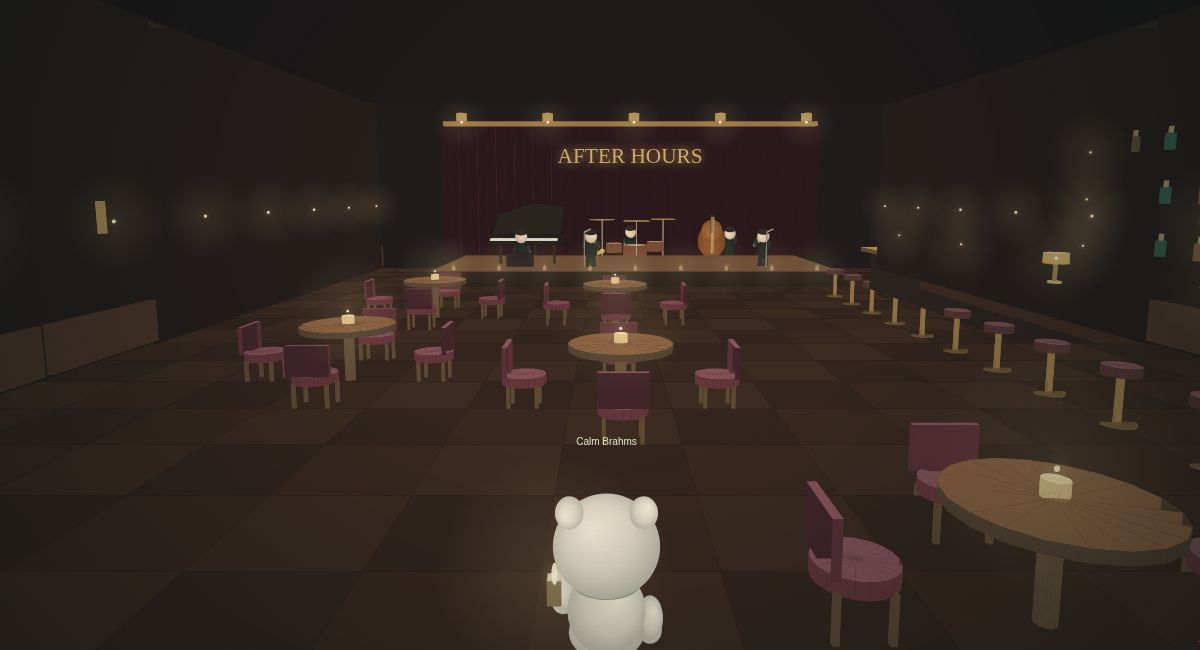
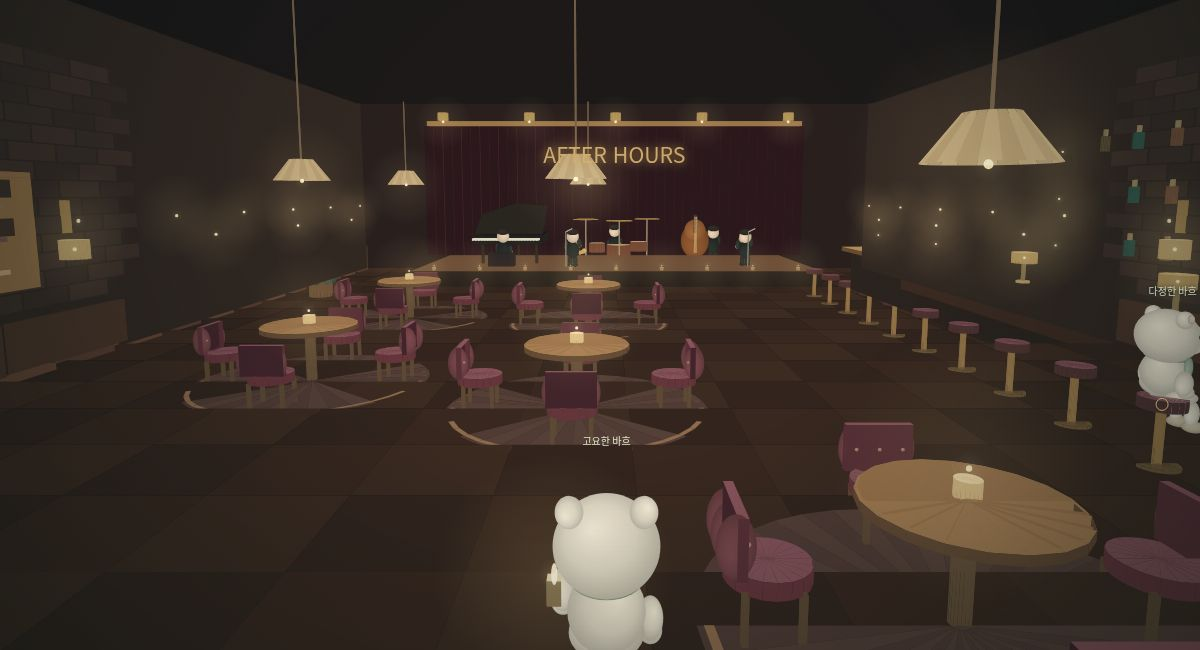
Stabilize jazz bar camera and soften the interior

diff --git a/listening-room/index.html b/listening-room/index.html
@@ -1,4 +1,4 @@
-<!doctype html><html lang="ko"><meta charset="utf-8"><meta name="viewport" content="width=device-width,initial-scale=1,viewport-fit=cover"><meta name="theme-color" content="#19251f"><title>잠시, 음악 — Listening Room · Ian Chung</title><meta name="description" content="체임버홀, 촛불이 빛나는 빈야드홀, 별과 오로라 아래의 별빛 청음실, 작은 퀸텟과 함께하는 재즈바. 오늘 마음이 향하는 음악 공간을 골라보세요."><link rel="canonical" href="https://ianchungmusic.com/listening-room/"><script>if(!['chamber','vineyard','greenhouse','jazzbar'].includes(new URLSearchParams(location.search).get('hall')))document.documentElement.classList.add('choosingHall');</script><link rel="stylesheet" href="style.css?v=20261105-22"><script src="i18n.js?v=20261105-22"></script><body><canvas id="hall" aria-label="내 캐릭터와 함께하는 체임버 홀. 드래그로 시선을 돌리고 방향키로 이동하세요."></canvas><div class="vignette"></div><header><a class="brand" href="/" aria-label="Ian Chung 홈으로">잠시, 음악<small>THE LISTENING ROOM</small></a><div class="topright"><a class="halllink" href="?hall=chamber">체임버홀</a><a class="halllink" href="?hall=vineyard">빈야드홀</a><a class="halllink" href="?hall=greenhouse">별빛 청음실</a><a class="halllink" href="?hall=jazzbar">재즈바</a><span>PRIVATE RECITAL</span><button id="fullscreen" aria-label="전체 화면">⛶</button><button id="help" aria-label="이용 안내">?</button></div></header><div id="toast" role="status"></div><div class="place"><span>THE EVENING HALL</span><small id="seatlabel">빈 의자를 누르면 그 자리에 앉아요</small></div><nav class="walk" aria-label="공간 이동"><button id="forward" aria-label="앞으로 걷기">↑</button><div><button id="left" aria-label="왼쪽 걷기">←</button><button id="back" aria-label="뒤로 걷기">↓</button><button id="right" aria-label="오른쪽 걷기">→</button></div></nav><nav id="ritualDock" aria-label="마음 쉬어가기"><button id="candleButton">♧ 내 촛불 놓기</button><button id="restButton">⌑ 쉬는 자리</button><button id="breatheButton">◌ 숨 고르기</button><button id="curtainButton">↗ 감상 마치기</button></nav><button id="reset" class="reset">입구로 돌아가기</button><footer><div class="playing"><small id="playstate">A MOMENT OF STILLNESS</small><strong id="title">비가 머무는 저녁</strong></div><div class="transport"><button id="prev" aria-label="이전 곡">‹</button><button id="play" aria-label="음악 재생">▶</button><button id="next" aria-label="다음 곡">›</button></div><div class="ambient"><button id="rain" aria-pressed="false" title="빗소리">☂</button><button id="programtoggle" aria-expanded="false" title="연주 목록">☷</button><label><span>음량</span><input id="volume" aria-label="음량" type="range" min="0" max="100" value="65"></label><button id="hideui" title="음악에 집중하기">◌</button></div><div class="timeline"><span id="elapsed">0:00</span><input id="seek" aria-label="재생 위치" type="range" min="0" max="144" value="0"><span id="duration">2:24</span></div></footer><aside id="program" hidden><small>TONIGHT’S PROGRAM</small><button id="closeprogram" aria-label="연주 목록 닫기">×</button><h2>고요 속의 세 풍경</h2><div id="tracks"></div><section class="source"><label for="musicurl">내 음악으로 듣기</label><form id="musicform"><input id="musicurl" type="url" placeholder="YouTube 또는 음원 링크" autocomplete="off"><button type="submit">연결</button></form><label class="filepick" for="musicfile">＋ MP3 · WAV 파일 선택<input id="musicfile" type="file" accept="audio/*,.mp3,.wav,.m4a,.ogg,.flac"></label><p id="sourcestatus" role="status">음원 파일은 영상 없이 재생돼요. 선택한 파일은 이 기기에서만 사용됩니다.</p><p>YouTube는 작은 영상 플레이어가 함께 표시됩니다.</p></section><p>오리지널 합성 피아노 스케치 · 혼자 감상하는 공간</p></aside><section id="youtubePanel" hidden aria-label="YouTube 음악 플레이어"><div class="ytheader"><span>YouTube</span><button id="stopyoutube" aria-label="YouTube 재생 종료">×</button></div><div id="youtubeMount"></div><p id="youtubeStatus" role="status">플레이어에서 재생 버튼을 눌러주세요.</p><a id="youtubeOpen" target="_blank" rel="noopener">YouTube에서 열기 ↗</a></section><div class="welcome" id="welcome"><div><small>YOU WERE NEVER LOST</small><h1>빛과 음악 사이,<br>당신의 자리.</h1><p>잠시 머물러도 괜찮아요.</p><button id="enter" disabled>홀 안으로 들어가기 <span>→</span></button><small class="guide">드래그로 둘러보기 · 의자를 눌러 앉기<br>이어폰으로 들으면 더 좋아요</small></div></div><section id="arrival" hidden aria-label="어두운 입장 복도"><canvas id="arrivalCanvas" aria-label="문 너머의 음악을 따라 천천히 걷는 복도"></canvas><div class="arrivalCaption"><small>BETWEEN THE EVERYDAY AND THE MUSIC</small><p>문 너머에서, 음악이 들려요.</p><button id="skipArrival">바로 들어가기 →</button></div></section><section id="candlePanel" hidden aria-label="내 촛불 놓기"><button id="closeCandle" aria-label="촛불 놓기 닫기">×</button><small>A LITTLE LIGHT, FROM YOU</small><h2>어디에 빛을 놓을까요?</h2><p>홀의 바닥을 눌러 놓거나, 아래에서 골라주세요.</p><div><button data-candle="near">내 자리 옆</button><button data-candle="stage">무대 앞</button><button data-candle="entrance">입구 선반</button></div><small class="localnote">이 기기에서 20분간 남아 있어요.</small></section><section id="restPanel" hidden aria-label="쉬는 자리"><button id="closeRest" aria-label="쉬는 자리 닫기">×</button><small>FIND YOUR OWN DISTANCE</small><h2>오늘은, 어떻게 쉴까요?</h2><button data-rest="balcony">혼자 듣는 발코니 <span>음악과 조금 떨어져</span></button><button data-rest="lean">벽에 기대기 <span>몸을 편안히</span></button><button data-rest="blanket">담요 덮고 앉기 <span>따뜻하고 가까이</span></button></section><dialog id="exitChoice"><button id="closeExit" aria-label="감상 계속하기">×</button><small>A QUIET GOODNIGHT</small><h2>어떻게 인사할까요?</h2><button id="quietExit">이 자리에서 조용히 <span>작은 인사와 마지막 한 음</span></button><button id="stageExit">무대에서 커튼콜 <span>오케스트라와 마주하며</span></button></dialog><section id="breathOverlay" hidden aria-label="지휘자와 함께하는 쉼표"><small>A REST, TOGETHER</small><div class="breathHalo"><div id="breathOrb"></div><span id="breathCue">편안히 준비해요</span></div><p id="breathCount" role="status">지휘자의 손과 함께 · 30초</p><p class="gentle">리듬을 따르지 않고, 내 호흡대로 쉬어도 괜찮아요.</p><button id="endBreath">내 호흡으로 돌아가기</button></section><section id="farewell" hidden aria-label="오늘의 커튼콜"><small>THE LAST NOTE IS FOR YOU</small><h2 id="farewellTitle">오늘을 지나온 당신에게,<br>이 마지막 한 음을.</h2><p id="farewellMood"></p><div class="farewellObject" id="farewellObject"></div><p id="farewellNote" role="status">당신이 무대에 오르는 동안, 잠시 음악이 잦아들어요.</p><div id="farewellActions" hidden><button id="stayHere">조금 더 머물기</button><button id="leaveHall">마음에 담고 나가기</button></div><button id="cancelCurtain">지금 자리로 돌아가기</button></section><section id="goodbye" hidden><small>YOU WERE NEVER LOST</small><h2>당신의 자리는<br>여기에 남아 있어요.</h2><p>오늘의 마음을 잠시 쉬게 해주어서 고마워요.</p><button id="returnHall">다시 음악실로</button></section><dialog id="instructions"><button id="closehelp">×</button><small>MAKE YOURSELF AT HOME</small><h2>이곳에서, 천천히.</h2><p>화면을 드래그해 내 캐릭터 주변을 둘러보세요.<br>방향키 또는 WASD, 왼쪽 아래 화살표로 걸을 수 있어요.<br>의자를 누르면 내 캐릭터가 그 자리로 이동해 앉습니다.<br>카메라는 높은 곳에서 따라가 무대를 보여줍니다.</p><p>촛불 버튼을 누르고 홀의 바닥을 선택하면 내 빛을 놓을 수 있어요.<br>쉬는 자리에서 발코니·기대기·담요를 선택할 수 있습니다.<br>아래 ☷ 버튼에서 곡을 고를 수 있어요.<br>◌ 버튼으로 조작 화면을 숨길 수 있습니다.<br>빈 화면을 한 번 누르면 다시 나타납니다.</p><p>☷ 연주 목록에서 YouTube·음원 링크를 연결하거나<br>내 기기의 MP3·WAV 파일을 선택할 수 있어요.<br>YouTube 재생에는 작은 영상 플레이어가 표시됩니다.<br>함께 숨 고르기로 지휘자와 30초의 쉼표를 만들고,<br>나를 위한 커튼콜로 오늘의 감상을 마칠 수 있어요.<br>현재는 혼자 감상하는 공간입니다.</p></dialog><script src="audio.js?v=20261105-22"></script><script src="room-soundscapes.js?v=20261105-22"></script><script src="media.js?v=20261105-22"></script><script src="chamber-music.js?v=20261105-22"></script><script src="jazz-audio.js?v=20261105-22"></script><script src="rituals.js?v=20261105-22"></script><script src="stillness.js?v=20261105-22"></script><script src="greenhouse-audio.js?v=20261105-22"></script><script src="presence.js?v=20261105-22"></script><script src="recommendations.js?v=20261105-22"></script><script src="comfort.js?v=20261105-22"></script><script src="scene-engine.js?v=20261105-22"></script><script src="seat-walk.js?v=20261105-22"></script><script src="venue.js?v=20261105-22"></script></body></html>
+<!doctype html><html lang="ko"><meta charset="utf-8"><meta name="viewport" content="width=device-width,initial-scale=1,viewport-fit=cover"><meta name="theme-color" content="#19251f"><title>잠시, 음악 — Listening Room · Ian Chung</title><meta name="description" content="체임버홀, 촛불이 빛나는 빈야드홀, 별과 오로라 아래의 별빛 청음실, 작은 퀸텟과 함께하는 재즈바. 오늘 마음이 향하는 음악 공간을 골라보세요."><link rel="canonical" href="https://ianchungmusic.com/listening-room/"><script>if(!['chamber','vineyard','greenhouse','jazzbar'].includes(new URLSearchParams(location.search).get('hall')))document.documentElement.classList.add('choosingHall');</script><link rel="stylesheet" href="style.css?v=20261105-23"><script src="i18n.js?v=20261105-23"></script><body><canvas id="hall" aria-label="내 캐릭터와 함께하는 체임버 홀. 드래그로 시선을 돌리고 방향키로 이동하세요."></canvas><div class="vignette"></div><header><a class="brand" href="/" aria-label="Ian Chung 홈으로">잠시, 음악<small>THE LISTENING ROOM</small></a><div class="topright"><a class="halllink" href="?hall=chamber">체임버홀</a><a class="halllink" href="?hall=vineyard">빈야드홀</a><a class="halllink" href="?hall=greenhouse">별빛 청음실</a><a class="halllink" href="?hall=jazzbar">재즈바</a><span>PRIVATE RECITAL</span><button id="fullscreen" aria-label="전체 화면">⛶</button><button id="help" aria-label="이용 안내">?</button></div></header><div id="toast" role="status"></div><div class="place"><span>THE EVENING HALL</span><small id="seatlabel">빈 의자를 누르면 그 자리에 앉아요</small></div><nav class="walk" aria-label="공간 이동"><button id="forward" aria-label="앞으로 걷기">↑</button><div><button id="left" aria-label="왼쪽 걷기">←</button><button id="back" aria-label="뒤로 걷기">↓</button><button id="right" aria-label="오른쪽 걷기">→</button></div></nav><nav id="ritualDock" aria-label="마음 쉬어가기"><button id="candleButton">♧ 내 촛불 놓기</button><button id="restButton">⌑ 쉬는 자리</button><button id="breatheButton">◌ 숨 고르기</button><button id="curtainButton">↗ 감상 마치기</button></nav><button id="reset" class="reset">입구로 돌아가기</button><footer><div class="playing"><small id="playstate">A MOMENT OF STILLNESS</small><strong id="title">비가 머무는 저녁</strong></div><div class="transport"><button id="prev" aria-label="이전 곡">‹</button><button id="play" aria-label="음악 재생">▶</button><button id="next" aria-label="다음 곡">›</button></div><div class="ambient"><button id="rain" aria-pressed="false" title="빗소리">☂</button><button id="programtoggle" aria-expanded="false" title="연주 목록">☷</button><label><span>음량</span><input id="volume" aria-label="음량" type="range" min="0" max="100" value="65"></label><button id="hideui" title="음악에 집중하기">◌</button></div><div class="timeline"><span id="elapsed">0:00</span><input id="seek" aria-label="재생 위치" type="range" min="0" max="144" value="0"><span id="duration">2:24</span></div></footer><aside id="program" hidden><small>TONIGHT’S PROGRAM</small><button id="closeprogram" aria-label="연주 목록 닫기">×</button><h2>고요 속의 세 풍경</h2><div id="tracks"></div><section class="source"><label for="musicurl">내 음악으로 듣기</label><form id="musicform"><input id="musicurl" type="url" placeholder="YouTube 또는 음원 링크" autocomplete="off"><button type="submit">연결</button></form><label class="filepick" for="musicfile">＋ MP3 · WAV 파일 선택<input id="musicfile" type="file" accept="audio/*,.mp3,.wav,.m4a,.ogg,.flac"></label><p id="sourcestatus" role="status">음원 파일은 영상 없이 재생돼요. 선택한 파일은 이 기기에서만 사용됩니다.</p><p>YouTube는 작은 영상 플레이어가 함께 표시됩니다.</p></section><p>오리지널 합성 피아노 스케치 · 혼자 감상하는 공간</p></aside><section id="youtubePanel" hidden aria-label="YouTube 음악 플레이어"><div class="ytheader"><span>YouTube</span><button id="stopyoutube" aria-label="YouTube 재생 종료">×</button></div><div id="youtubeMount"></div><p id="youtubeStatus" role="status">플레이어에서 재생 버튼을 눌러주세요.</p><a id="youtubeOpen" target="_blank" rel="noopener">YouTube에서 열기 ↗</a></section><div class="welcome" id="welcome"><div><small>YOU WERE NEVER LOST</small><h1>빛과 음악 사이,<br>당신의 자리.</h1><p>잠시 머물러도 괜찮아요.</p><button id="enter" disabled>홀 안으로 들어가기 <span>→</span></button><small class="guide">드래그로 둘러보기 · 의자를 눌러 앉기<br>이어폰으로 들으면 더 좋아요</small></div></div><section id="arrival" hidden aria-label="어두운 입장 복도"><canvas id="arrivalCanvas" aria-label="문 너머의 음악을 따라 천천히 걷는 복도"></canvas><div class="arrivalCaption"><small>BETWEEN THE EVERYDAY AND THE MUSIC</small><p>문 너머에서, 음악이 들려요.</p><button id="skipArrival">바로 들어가기 →</button></div></section><section id="candlePanel" hidden aria-label="내 촛불 놓기"><button id="closeCandle" aria-label="촛불 놓기 닫기">×</button><small>A LITTLE LIGHT, FROM YOU</small><h2>어디에 빛을 놓을까요?</h2><p>홀의 바닥을 눌러 놓거나, 아래에서 골라주세요.</p><div><button data-candle="near">내 자리 옆</button><button data-candle="stage">무대 앞</button><button data-candle="entrance">입구 선반</button></div><small class="localnote">이 기기에서 20분간 남아 있어요.</small></section><section id="restPanel" hidden aria-label="쉬는 자리"><button id="closeRest" aria-label="쉬는 자리 닫기">×</button><small>FIND YOUR OWN DISTANCE</small><h2>오늘은, 어떻게 쉴까요?</h2><button data-rest="balcony">혼자 듣는 발코니 <span>음악과 조금 떨어져</span></button><button data-rest="lean">벽에 기대기 <span>몸을 편안히</span></button><button data-rest="blanket">담요 덮고 앉기 <span>따뜻하고 가까이</span></button></section><dialog id="exitChoice"><button id="closeExit" aria-label="감상 계속하기">×</button><small>A QUIET GOODNIGHT</small><h2>어떻게 인사할까요?</h2><button id="quietExit">이 자리에서 조용히 <span>작은 인사와 마지막 한 음</span></button><button id="stageExit">무대에서 커튼콜 <span>오케스트라와 마주하며</span></button></dialog><section id="breathOverlay" hidden aria-label="지휘자와 함께하는 쉼표"><small>A REST, TOGETHER</small><div class="breathHalo"><div id="breathOrb"></div><span id="breathCue">편안히 준비해요</span></div><p id="breathCount" role="status">지휘자의 손과 함께 · 30초</p><p class="gentle">리듬을 따르지 않고, 내 호흡대로 쉬어도 괜찮아요.</p><button id="endBreath">내 호흡으로 돌아가기</button></section><section id="farewell" hidden aria-label="오늘의 커튼콜"><small>THE LAST NOTE IS FOR YOU</small><h2 id="farewellTitle">오늘을 지나온 당신에게,<br>이 마지막 한 음을.</h2><p id="farewellMood"></p><div class="farewellObject" id="farewellObject"></div><p id="farewellNote" role="status">당신이 무대에 오르는 동안, 잠시 음악이 잦아들어요.</p><div id="farewellActions" hidden><button id="stayHere">조금 더 머물기</button><button id="leaveHall">마음에 담고 나가기</button></div><button id="cancelCurtain">지금 자리로 돌아가기</button></section><section id="goodbye" hidden><small>YOU WERE NEVER LOST</small><h2>당신의 자리는<br>여기에 남아 있어요.</h2><p>오늘의 마음을 잠시 쉬게 해주어서 고마워요.</p><button id="returnHall">다시 음악실로</button></section><dialog id="instructions"><button id="closehelp">×</button><small>MAKE YOURSELF AT HOME</small><h2>이곳에서, 천천히.</h2><p>화면을 드래그해 내 캐릭터 주변을 둘러보세요.<br>방향키 또는 WASD, 왼쪽 아래 화살표로 걸을 수 있어요.<br>의자를 누르면 내 캐릭터가 그 자리로 이동해 앉습니다.<br>카메라는 높은 곳에서 따라가 무대를 보여줍니다.</p><p>촛불 버튼을 누르고 홀의 바닥을 선택하면 내 빛을 놓을 수 있어요.<br>쉬는 자리에서 발코니·기대기·담요를 선택할 수 있습니다.<br>아래 ☷ 버튼에서 곡을 고를 수 있어요.<br>◌ 버튼으로 조작 화면을 숨길 수 있습니다.<br>빈 화면을 한 번 누르면 다시 나타납니다.</p><p>☷ 연주 목록에서 YouTube·음원 링크를 연결하거나<br>내 기기의 MP3·WAV 파일을 선택할 수 있어요.<br>YouTube 재생에는 작은 영상 플레이어가 표시됩니다.<br>함께 숨 고르기로 지휘자와 30초의 쉼표를 만들고,<br>나를 위한 커튼콜로 오늘의 감상을 마칠 수 있어요.<br>현재는 혼자 감상하는 공간입니다.</p></dialog><script src="audio.js?v=20261105-23"></script><script src="room-soundscapes.js?v=20261105-23"></script><script src="media.js?v=20261105-23"></script><script src="chamber-music.js?v=20261105-23"></script><script src="jazz-audio.js?v=20261105-23"></script><script src="rituals.js?v=20261105-23"></script><script src="stillness.js?v=20261105-23"></script><script src="greenhouse-audio.js?v=20261105-23"></script><script src="presence.js?v=20261105-23"></script><script src="recommendations.js?v=20261105-23"></script><script src="comfort.js?v=20261105-23"></script><script src="scene-engine.js?v=20261105-23"></script><script src="seat-walk.js?v=20261105-23"></script><script src="venue.js?v=20261105-23"></script></body></html>
 
 
 

diff --git a/listening-room/jazz-bar.js b/listening-room/jazz-bar.js
@@ -15,7 +15,7 @@ function rod(a,b,r,col){let dx=b[0]-a[0],dy=b[1]-a[1],dz=b[2]-a[2],len=Math.hypo
 // AFTER HOURS: walnut, velvet, brass and the warmth of a small quintet stage.
 function cylinder(x,y,z,r,h,col,top=col){const N=20;for(let j=0;j<N;j++){const a=j/N*Math.PI*2,b=(j+1)/N*Math.PI*2;face([[x+Math.cos(a)*r,y,z+Math.sin(a)*r],[x+Math.cos(b)*r,y,z+Math.sin(b)*r],[x+Math.cos(b)*r,y+h,z+Math.sin(b)*r],[x+Math.cos(a)*r,y+h,z+Math.sin(a)*r]],col);face([[x,y+h,z],[x+Math.cos(a)*r,y+h,z+Math.sin(a)*r],[x+Math.cos(b)*r,y+h,z+Math.sin(b)*r]],top);}}
 for(let z=-14;z<26;z+=2)for(let x=-14;x<14;x+=2)face([[x,0,z],[x+2,0,z],[x+2,0,z+2],[x,0,z+2]],['#33251e','#3c2b21','#39281f'][Math.abs(x+z)%3]);
-box(-14,0,6,.3,9,40,'#251e1b');box(14,0,6,.3,9,40,'#251e1b');box(0,0,-14,28,9,.3,'#201c1c');box(0,0,26,28,9,.3,'#231d1a');box(0,9,6,28,.12,40,'#1c1918');
+box(-14,0,6,.3,9,40,'#322822');box(14,0,6,.3,9,40,'#322822');box(0,0,-14,28,9,.3,'#29201e');box(0,0,26,28,9,.3,'#302621');box(0,9,6,28,.12,40,'#1c1918');
 for(const side of [-1,1])for(let z=-12;z<=24;z+=4){box(side*13.8,.12,z,.12,1.15,3.8,'#493428');box(side*13.7,3.2,z,.08,.8,.23,'#9c7b48');lights.push([side*13.4,3.5,z,.05]);}
 for(let z=-10;z<26;z+=5)box(0,8.75,z,28,.25,.24,'#332820');
 // Burgundy curtains frame a low, intimate stage with generous aisles outside it.
@@ -36,7 +36,7 @@ function loungeSeat(x,z,heading,kind,label){const start=geo.length,old=buildingW
  for(let i=start;i<geo.length;i++)geo[i].pts=geo[i].pts.map(([px,py,pz])=>[x+px*Math.cos(heading)-pz*Math.sin(heading),py,z+px*Math.sin(heading)+pz*Math.cos(heading)]);buildingWorld=old;
 }
 const tablePlaces=[[-7,2],[-1,3],[-7,10],[-1,12],[3,19]];
-for(let i=0;i<tablePlaces.length;i++){const [x,z]=tablePlaces[i];cylinder(x,.04,z,.11,1.14,'#655039');cylinder(x,1.18,z,1.02,.13,'#514032','#865e3f');blockers.push({x,y:0,z,a:2.04,b:1.31,c:2.04});
+for(let i=0;i<tablePlaces.length;i++){const [x,z]=tablePlaces[i];cylinder(x,.04,z,.11,1.14,'#655039');cylinder(x,1.18,z,1.02,.10,'#614732','#a47b51');cylinder(x,1.28,z,.99,.025,'#a47b51','#9a714a');blockers.push({x,y:0,z,a:2.04,b:1.31,c:2.04});
  cylinder(x,1.32,z,.13,.18,'#dbbc83','#f8dfab');lights.push([x,1.60,z,.03]);
  for(let j=0;j<4;j++){const a=j/4*Math.PI*2,sx=x+Math.sin(a)*1.88,sz=z+Math.cos(a)*1.88; loungeSeat(sx,sz,Math.atan2(x-sx,sz-z),'table',`테이블 ${String(i+1).padStart(2,'0')} · ${j+1}번`);}
 }
@@ -66,8 +66,24 @@ function jazzBand(t){const time=matchMedia('(prefers-reduced-motion: reduce)').m
  }
 }
 
+// Quilted velvet backs and softly rounded seats replace hard chair silhouettes.
+for(const chair of chairs){if(chair.kind!=='table')continue;const heading=-(chair.theta||0),co=Math.cos(heading),si=Math.sin(heading),at=(x,y,z)=>[chair.x+x*co-z*si,y,chair.z+x*si+z*co];
+ for(const x of [-.29,0,.29]){const q=at(x,.97,.36);ball(...q,.19,.31,.095,'#77464a');const b=at(x,.99,.245);ball(...b,.025,.025,.015,'#ac8270');}
+}
+// Woven rugs beneath the tables, leaving the walking aisles untouched.
+for(const [x,z] of tablePlaces){const N=36;for(let j=0;j<N;j++){const a=j/N*Math.PI*2,b=(j+1)/N*Math.PI*2;face([[x,.012,z],[x+Math.cos(a)*2.55,.012,z+Math.sin(a)*2.55],[x+Math.cos(b)*2.55,.012,z+Math.sin(b)*2.55]],j%2?'#503b35':'#554038');}for(let j=0;j<36;j++){const a=j/36*Math.PI*2,b=(j+1)/36*Math.PI*2;face([[x+Math.cos(a)*2.38,.016,z+Math.sin(a)*2.38],[x+Math.cos(b)*2.38,.016,z+Math.sin(b)*2.38],[x+Math.cos(b)*2.48,.016,z+Math.sin(b)*2.48],[x+Math.cos(a)*2.48,.016,z+Math.sin(a)*2.48]],'#8d6b4c');}}
+// Picture mouldings, amber sconces and old record sleeves along the brick walls.
+for(const side of [-1,1])for(let z=-8;z<24;z+=6){box(side*13.73,2,z,.12,2.65,2.0,'#916e45');box(side*13.63,2.12,z,.06,2.40,1.76,'#282526');for(let k=0;k<5;k++)box(side*13.58,2.4+k*.36,z+(k%2?-.32:.24),.025,.10,.65,['#c3a172','#927259','#745250'][k%3]);}
+for(const side of [-1,1])for(let z=-9;z<25;z+=6){cylinder(side*12.8,2.65,z,.30,.45,'#bc9b64','#e3c18a');lights.push([side*12.8,2.88,z,.05]);}
+// Books, old vinyl and green leaves soften the back of the room.
+for(let j=0;j<18;j++)box(-13.5,.04,-12+j*2,.16,.16,1.82,j%2?'#644434':'#583c30');
+for(const [x,z] of [[-12,-3],[-12,18],[12,22]]){cylinder(x,.02,z,.45,.7,'#6a4f36');for(let j=0;j<9;j++){const a=j*2.4;ball(x+Math.sin(a)*.45,1.0+(j%3)*.38,z+Math.cos(a)*.45,.23,.48,.14,j%2?'#526451':'#3d5645');}}
+// Subtle exposed-brick courses and low linen pendants give the room a lived-in feel.
+for(const side of [-1,1])for(let row=0;row<14;row++)for(let z=-13+(row%2)*.7;z<25;z+=1.4){const x=side*13.82,y=1.5+row*.43;face([[x,y,z],[x,y+.395,z],[x,y+.395,z+1.34],[x,y,z+1.34]],['#3b2f29','#40312a','#382c27'][(row+Math.abs(Math.round(z)))%3]);}
+for(const [x,z] of tablePlaces){rod([x,8.8,z],[x,4.6,z],.018,'#756149');for(let j=0;j<20;j++){const a=j/20*Math.PI*2,b=(j+1)/20*Math.PI*2;face([[x+Math.cos(a)*.24,4.9,z+Math.sin(a)*.24],[x+Math.cos(b)*.24,4.9,z+Math.sin(b)*.24],[x+Math.cos(b)*.58,4.45,z+Math.sin(b)*.58],[x+Math.cos(a)*.58,4.45,z+Math.sin(a)*.58]],j%2?'#b69b70':'#c2a87b');}lights.push([x,4.44,z,.045]);}
 const worldGeometryCount=geo.length;buildingWorld=false;const depthRenderer=window.createHallRenderer?.(),physics=window.createHallPhysics?.(blockers,chairs,(x,z)=>0);
 
+const cameraRig=window.createHallCameraRig(physics,cam);
 const seatWalk=window.createSeatWalker({physics,chairs,person,dest,bounds:(x,z)=>x>=-12.9&&x<=12.9&&z>=-4.5&&z<=23.5,getSeat:()=>seat,
  onStart(i){seat=-1;window.hallRitual.restPose=null;window.hallRitual.distanceGain=1;window.applyRoomVolume?.();Object.keys(keys).forEach(k=>keys[k]=false);$('seatlabel').textContent='선택한 자리로 천천히 걸어가는 중…';},
  onArrive(i){seat=i;moving=false;lookYaw=0;lookPitch=-.13;person.heading=-(chairs[i].theta||0);$('seatlabel').textContent=chairs[i].label+' · 나만의 자리';},
@@ -112,7 +128,7 @@ function personalLight(t){let E=window.hallRitual;if(!E)return;let c=E.candle;if
 
 const slow=matchMedia('(prefers-reduced-motion: reduce)').matches;
 function sky(t){X.fillStyle='#171719';X.fillRect(0,0,width,height);}
-let old=0;function draw(t){focal=height/(2*Math.tan((width<680?75:67)*Math.PI/360))*(window.hallZoom||1);if(t-old<40){requestAnimationFrame(draw);return;}let frameDelta=(t-old)/1000,dt=Math.min(frameDelta,.10);old=t;const speed=1.85*dt;if(keys.ArrowUp||keys.w)walk(0,-speed);if(keys.ArrowDown||keys.s)walk(0,speed);if(keys.ArrowLeft||keys.a)walk(-speed,0);if(keys.ArrowRight||keys.d)walk(speed,0);let lerp=1-Math.exp(-dt*4),dx=dest.x-person.x,dz=dest.z-person.z;const navigation=seatWalk.tick(Math.min(frameDelta,.5),window.hallRitual?.phase==='listening');moving=navigation?navigation.moving:Math.hypot(dx,dz)>.04;if(!navigation){person.x+=dx*lerp;person.z+=dz*lerp;person.y+=(dest.y-person.y)*lerp;}if(navigation)person.heading=navigation.heading;else if(moving)person.heading=Math.atan2(dx,-dz);else if(seat>=0)person.heading=-(chairs[seat]?.theta||0);let distance=innerWidth<680?6.5:6.7;cam.x+=(person.x-Math.sin(lookYaw)*distance-cam.x)*lerp;cam.z+=(person.z+Math.cos(lookYaw)*distance-cam.z)*lerp;cam.y+=(person.y+(seat>=0?4.1:4.8)-cam.y)*lerp;cam.yaw+=(lookYaw-cam.yaw)*lerp;cam.pitch+=(lookPitch-cam.pitch)*lerp;if(physics&&!stargazing)Object.assign(cam,physics.camera({x:person.x,y:person.y+1.6,z:person.z},cam,{architectureOnly:true}));window.roomPresence?.frame(person,seatWalk.target>=0?seatWalk.target:seat,moving);if(stargazing)geo.length=worldGeometryCount;else{avatar(t);for(const visitor of window.roomPresence?.peers()||[])avatar(t,visitor,true);personalCandleGeometry();}jazzBand(t);sky(t);
+let old=0;function draw(t){focal=height/(2*Math.tan((width<680?75:67)*Math.PI/360))*(window.hallZoom||1);if(t-old<40){requestAnimationFrame(draw);return;}let frameDelta=(t-old)/1000,dt=Math.min(frameDelta,.10);old=t;const speed=1.85*dt;if(keys.ArrowUp||keys.w)walk(0,-speed);if(keys.ArrowDown||keys.s)walk(0,speed);if(keys.ArrowLeft||keys.a)walk(-speed,0);if(keys.ArrowRight||keys.d)walk(speed,0);let lerp=1-Math.exp(-dt*4),dx=dest.x-person.x,dz=dest.z-person.z;const navigation=seatWalk.tick(Math.min(frameDelta,.5),window.hallRitual?.phase==='listening');moving=navigation?navigation.moving:Math.hypot(dx,dz)>.04;if(!navigation){person.x+=dx*lerp;person.z+=dz*lerp;person.y+=(dest.y-person.y)*lerp;}if(navigation)person.heading=navigation.heading;else if(moving)person.heading=Math.atan2(dx,-dz);else if(seat>=0)person.heading=-(chairs[seat]?.theta||0);let distance=innerWidth<680?6.5:6.7;Object.assign(cam,cameraRig.update({x:person.x,y:person.y+1.6,z:person.z},{x:person.x-Math.sin(lookYaw)*distance,z:person.z+Math.cos(lookYaw)*distance,y:person.y+(seat>=0?4.1:4.8),yaw:lookYaw,pitch:lookPitch},dt));window.roomPresence?.frame(person,seatWalk.target>=0?seatWalk.target:seat,moving);if(stargazing)geo.length=worldGeometryCount;else{avatar(t);for(const visitor of window.roomPresence?.peers()||[])avatar(t,visitor,true);personalCandleGeometry();}jazzBand(t);sky(t);
 if(depthRenderer)depthRenderer.render(geo,worldGeometryCount,cam,C,X,width,height,focal);else{let surfaces=[];for(const g of geo){if(g.sphere){const q=point(g.pts[0]);if(q)surfaces.push({sphere:g,depth:q.d});continue;}let v=clip(g.pts.map(view));if(v.length<3)continue;let ps=v.map(project);if(ps.every(p=>p.x<0)||ps.every(p=>p.x>width)||ps.every(p=>p.y<0)||ps.every(p=>p.y>height))continue;surfaces.push({ps,col:g.col,depth:v.reduce((n,p)=>n+p[2],0)/v.length});}surfaces.sort((a,b)=>b.depth-a.depth);for(const g of surfaces){if(g.sphere){window.drawSoftSphere(g.sphere,point,X);continue;}X.beginPath();g.ps.forEach((p,i)=>i?X.lineTo(p.x,p.y):X.moveTo(p.x,p.y));X.closePath();X.fillStyle=g.col;X.fill();}
 }
 const jazzSign=point([0,5.8,-13.15]);if(jazzSign){X.save();X.fillStyle='#c9a96d';X.font=`${Math.max(8,1.15*focal/jazzSign.d)}px Georgia`;X.textAlign='center';X.shadowColor='#b99043';X.shadowBlur=10;X.fillText('AFTER HOURS',jazzSign.x,jazzSign.y);X.restore();}
@@ -120,9 +136,9 @@ X.save();X.globalCompositeOperation='screen';for(const l of stargazing?[]:lights
 let vignette=X.createRadialGradient(width/2,height*.45,height*.25,width/2,height*.5,Math.max(width,height)*.75);vignette.addColorStop(0,'#00101900');vignette.addColorStop(1,'#000d1266');X.fillStyle=vignette;X.fillRect(0,0,width,height);
 hits.length=0;if(!stargazing){chairs.forEach((s,i)=>{let p=point([s.x,1,s.z]);if(p)hits.push({...p,i,r:Math.max(13,1.3*focal/p.d)});});let label=point([person.x,person.y+2.20,person.z]);if(label){X.fillStyle='#dce5ca';X.font='10px sans-serif';X.textAlign='center';X.fillText(window.roomPresence?.nickname||'나',label.x,label.y);}window.roomPresence?.paintLabels(point,X);window.roomPresence?.paintSeats(X,hits);}requestAnimationFrame(draw);}requestAnimationFrame(draw);
 function leaveDesk(){if(seat>=0){seat=-1;}window.hallRitual.restPose=null;window.hallRitual.distanceGain=1;window.applyRoomVolume?.();}
-function settleSeat(){Object.assign(person,{x:dest.x,y:dest.y,z:dest.z,heading:seat>=0?-(chairs[seat]?.theta||0):person.heading});moving=false;const distance=(innerWidth<680?7.4:6.7);Object.assign(cam,{x:person.x-Math.sin(lookYaw)*distance,z:person.z+Math.cos(lookYaw)*distance,y:person.y+4.7,yaw:lookYaw,pitch:lookPitch});Object.keys(keys).forEach(k=>keys[k]=false);}
+function settleSeat(){Object.assign(person,{x:dest.x,y:dest.y,z:dest.z,heading:seat>=0?-(chairs[seat]?.theta||0):person.heading});moving=false;const distance=(innerWidth<680?7.4:6.7);Object.assign(cam,{x:person.x-Math.sin(lookYaw)*distance,z:person.z+Math.cos(lookYaw)*distance,y:person.y+4.7,yaw:lookYaw,pitch:lookPitch});cameraRig.reset(cam);Object.keys(keys).forEach(k=>keys[k]=false);}
 function leaveSeat(){if(seat<0)return;const exit=physics?.exit(person)||{x:person.x+.8,y:person.y,z:person.z};seat=-1;Object.assign(dest,exit);Object.assign(person,exit);}
-window.onRoomSeatConflict=()=>{seatWalk.cancel();leaveSeat();$('seatlabel').textContent='다른 빈자리를 골라주세요';};window.roomSpawn=e=>{Object.assign(person,{x:e.x,y:e.y,z:e.z});Object.assign(dest,{x:e.x,y:e.y,z:e.z});cam.x=e.x;};window.roomSeatNearest=()=>window.jazzBarScene?.sitNearest();
+window.onRoomSeatConflict=()=>{seatWalk.cancel();leaveSeat();$('seatlabel').textContent='다른 빈자리를 골라주세요';};window.roomSpawn=e=>{Object.assign(person,{x:e.x,y:e.y,z:e.z});Object.assign(dest,{x:e.x,y:e.y,z:e.z});Object.assign(cam,{x:e.x,y:e.y+4.8,z:e.z+6.7,yaw:lookYaw,pitch:lookPitch});cameraRig.reset(cam);};window.roomSeatNearest=()=>window.jazzBarScene?.sitNearest();
 function walk(x,z){if(stargazing)return;seatWalk.cancel();if(window.hallRitual?.phase!=='listening')return;leaveSeat();leaveDesk();dest.y=0;dest.x=Math.max(-12.9,Math.min(12.9,dest.x+x*Math.cos(lookYaw)-z*Math.sin(lookYaw)));dest.z=Math.max(-4.5,Math.min(23.5,dest.z+z*Math.cos(lookYaw)+x*Math.sin(lookYaw)));const step=physics?.move(person,dest.x,dest.z);if(step)Object.assign(dest,step);$('seatlabel').textContent='테이블이나 바 좌석을 눌러 앉아보세요';}
 async function sit(i){return seatWalk.go(i);}
 addEventListener('keydown',e=>{if((['INPUT','TEXTAREA','SELECT'].includes(e.target.tagName)||e.target.isContentEditable)||$('instructions').open||window.hallRitual?.phase!=='listening')return;if(['ArrowUp','ArrowDown','ArrowLeft','ArrowRight','w','a','s','d'].includes(e.key)){e.preventDefault();keys[e.key]=true;}});addEventListener('keyup',e=>keys[e.key]=false);addEventListener('blur',()=>Object.keys(keys).forEach(k=>keys[k]=false));for(const [id,k] of [['forward','ArrowUp'],['back','ArrowDown'],['left','ArrowLeft'],['right','ArrowRight']]){let el=$(id);el.onpointerdown=e=>{e.preventDefault();el.setPointerCapture(e.pointerId);keys[k]=true;};el.onpointerup=el.onpointercancel=()=>keys[k]=false;}

diff --git a/listening-room/venue.js b/listening-room/venue.js
@@ -4,7 +4,7 @@ if(!['chamber','vineyard','greenhouse','jazzbar'].includes(requestedHall)){
  document.title='잠시, 음악 — 당신의 공간을 골라보세요';
  for(const el of document.body.children)if(el.tagName!=='SCRIPT')el.inert=true;
  const picker=document.createElement('main');picker.id='roomPicker';
- picker.innerHTML=`<div class="pickerTop"><a href="/" class="pickerBrand">잠시, 음악<small>THE LISTENING ROOM</small></a><a class="pickerHome" href="/">Ian Chung ↗</a></div><section class="pickerContent" aria-labelledby="pickerTitle"><div class="pickerIntro"><small>A LITTLE ROOM FOR YOU</small><h1 id="pickerTitle">오늘은, 어디에 머물까요.</h1><p>마음이 향하는 공간을 골라보세요.</p></div><nav class="roomChoices" aria-label="음악 공간 선택"><a class="roomChoice" href="?hall=chamber" aria-label="체임버홀 선택"><div class="roomImage"><img src="chamber-preview.webp?v=20261105-22" alt="높은 천장과 부드러운 빛 아래 작은 피아노 무대" width="720" height="480" fetchpriority="high"></div><div class="roomCaption"><span>01 / CHAMBER</span><span aria-hidden="true">↗</span></div><h2>체임버홀</h2><p>작은 피아노 곁에, 잠시.</p></a><a class="roomChoice" href="?hall=vineyard" aria-label="빈야드홀 선택"><div class="roomImage"><img src="vineyard-preview.webp" alt="촛불이 감싼 거대한 오케스트라 연주홀" width="720" height="480"></div><div class="roomCaption"><span>02 / VINEYARD</span><span aria-hidden="true">↗</span></div><h2>빈야드홀</h2><p>촛불 사이로 번지는, 깊은 울림.</p></a><a class="roomChoice" href="?hall=greenhouse" aria-label="별빛 청음실 선택"><div class="roomImage"><img src="starlight-preview.webp" alt="별과 오로라 아래 테이블과 무드등이 놓인 유리 공간" width="720" height="480"></div><div class="roomCaption"><span>03 / STARLIGHT</span><span aria-hidden="true">↗</span></div><h2>별빛 청음실</h2><p>별 아래, 나만의 고요.</p></a><a class="roomChoice" href="?hall=jazzbar" aria-label="재즈바 선택"><div class="roomImage"><img src="jazz-preview.jpg" alt="월넛 바와 작은 재즈 퀸텟 무대" width="720" height="480"></div><div class="roomCaption"><span>04 / AFTER HOURS</span><span aria-hidden="true">↗</span></div><h2>재즈바</h2><p>밤이 깊어질수록, 가까워지는 음악.</p></a></nav></section><div class="pickerBottom">서두르지 않아도 괜찮아요.<span>YOU WERE NEVER LOST</span></div>`;
+ picker.innerHTML=`<div class="pickerTop"><a href="/" class="pickerBrand">잠시, 음악<small>THE LISTENING ROOM</small></a><a class="pickerHome" href="/">Ian Chung ↗</a></div><section class="pickerContent" aria-labelledby="pickerTitle"><div class="pickerIntro"><small>A LITTLE ROOM FOR YOU</small><h1 id="pickerTitle">오늘은, 어디에 머물까요.</h1><p>마음이 향하는 공간을 골라보세요.</p></div><nav class="roomChoices" aria-label="음악 공간 선택"><a class="roomChoice" href="?hall=chamber" aria-label="체임버홀 선택"><div class="roomImage"><img src="chamber-preview.webp?v=20261105-23" alt="높은 천장과 부드러운 빛 아래 작은 피아노 무대" width="720" height="480" fetchpriority="high"></div><div class="roomCaption"><span>01 / CHAMBER</span><span aria-hidden="true">↗</span></div><h2>체임버홀</h2><p>작은 피아노 곁에, 잠시.</p></a><a class="roomChoice" href="?hall=vineyard" aria-label="빈야드홀 선택"><div class="roomImage"><img src="vineyard-preview.webp" alt="촛불이 감싼 거대한 오케스트라 연주홀" width="720" height="480"></div><div class="roomCaption"><span>02 / VINEYARD</span><span aria-hidden="true">↗</span></div><h2>빈야드홀</h2><p>촛불 사이로 번지는, 깊은 울림.</p></a><a class="roomChoice" href="?hall=greenhouse" aria-label="별빛 청음실 선택"><div class="roomImage"><img src="starlight-preview.webp" alt="별과 오로라 아래 테이블과 무드등이 놓인 유리 공간" width="720" height="480"></div><div class="roomCaption"><span>03 / STARLIGHT</span><span aria-hidden="true">↗</span></div><h2>별빛 청음실</h2><p>별 아래, 나만의 고요.</p></a><a class="roomChoice" href="?hall=jazzbar" aria-label="재즈바 선택"><div class="roomImage"><img src="jazz-preview.jpg?v=20261105-23" alt="월넛 바와 작은 재즈 퀸텟 무대" width="720" height="480"></div><div class="roomCaption"><span>04 / AFTER HOURS</span><span aria-hidden="true">↗</span></div><h2>재즈바</h2><p>밤이 깊어질수록, 가까워지는 음악.</p></a></nav></section><div class="pickerBottom">서두르지 않아도 괜찮아요.<span>YOU WERE NEVER LOST</span></div>`;
  document.body.append(picker);
 }else{
  document.documentElement.classList.remove('choosingHall');
@@ -13,7 +13,7 @@ const chosenHall=['vineyard','greenhouse','jazzbar'].includes(requestedHall)?req
 document.body.classList.toggle('vineyard',chosenHall==='vineyard');
 document.body.classList.toggle('greenhouse',chosenHall==='greenhouse');document.body.classList.toggle('jazzbar',chosenHall==='jazzbar');
 document.querySelectorAll('.halllink').forEach(a=>{if(a.search.includes(chosenHall))a.setAttribute('aria-current','page');});
-const venueScript=document.createElement('script');venueScript.src=({chamber:'space.js',vineyard:'orchestra.js',greenhouse:'greenhouse.js',jazzbar:'jazz-bar.js'}[chosenHall])+'?v=20261105-22';venueScript.onload=()=>window.setupRituals?.();document.body.append(venueScript);
+const venueScript=document.createElement('script');venueScript.src=({chamber:'space.js',vineyard:'orchestra.js',greenhouse:'greenhouse.js',jazzbar:'jazz-bar.js'}[chosenHall])+'?v=20261105-23';venueScript.onload=()=>window.setupRituals?.();document.body.append(venueScript);
 
 }
 
